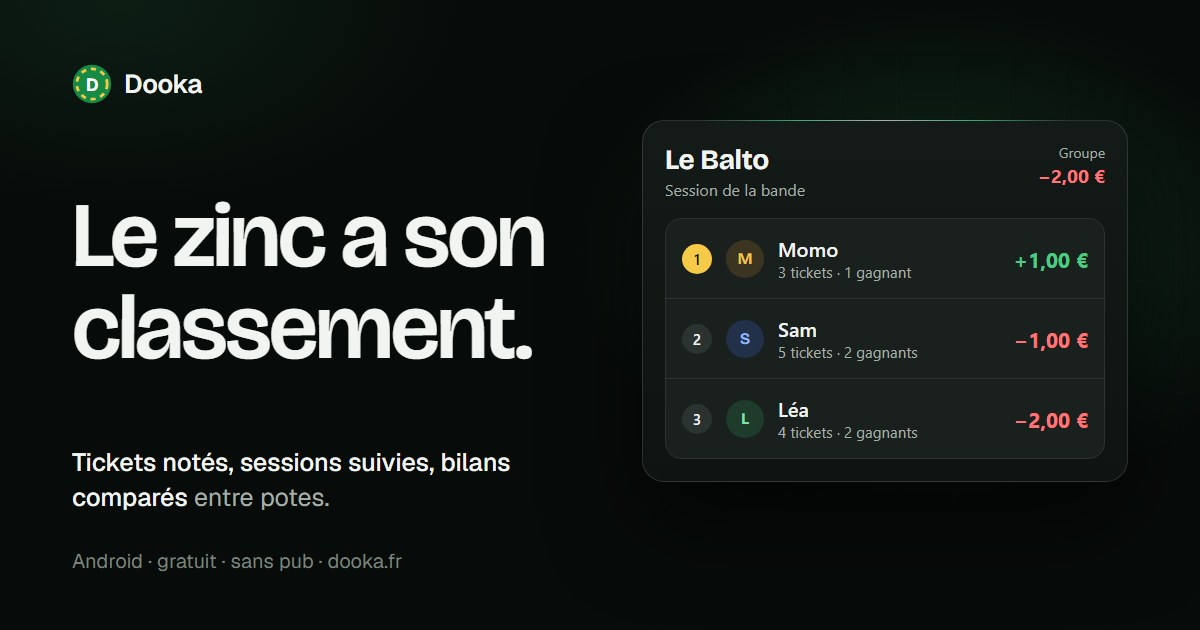
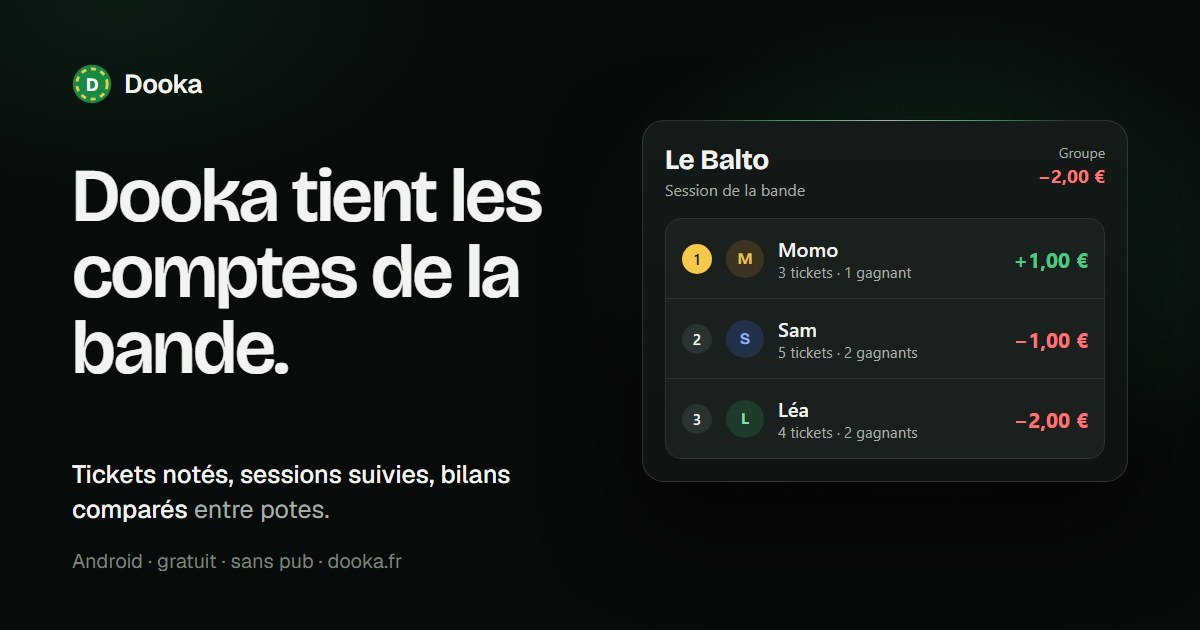
Site : « Dooka tient les comptes de la bande », et l'app décrite telle qu'elle est
- Nouveau titre d'accueil, repris dans og:title et dans og.jpg.
- Le site décrit l'app exactement : un ticket affiche sa vraie chance de
  gain et sa fiche le tableau complet des lots, sans gros lot mis en
  avant ; le record de chaque bar et la notification « Gros gains des
  amis » (activée par défaut, 50 € ou dix fois la mise) sont présentés
  dans un bloc « Ce qu'elle montre », sur l'accueil et sur la page jeu
  responsable.
- La promesse s'en tient à ce qui est vérifiable : Dooka n'a rien à gagner
  à ce que tu joues davantage. La section devient « Ce que Dooka fait, et
  ne fait pas ».

Changed region(s): [[0.0617, 0.2714, 0.4625, 0.6032], [0.0617, 0.7238, 0.4317, 0.8444]]

diff --git a/index.html b/index.html
@@ -6,7 +6,7 @@
 <title>Dooka — le PMU entre potes</title>
 <meta name="description" content="Dooka réunit tes tickets à gratter, tes sessions au PMU et ta bande dans une seule appli Android. Ce qui est joué est noté, les bilans se comparent. Gratuite, sans pub." />
 <meta property="og:type" content="website" />
-<meta property="og:title" content="Dooka — le zinc a son classement" />
+<meta property="og:title" content="Dooka tient les comptes de la bande" />
 <meta property="og:description" content="Tickets notés, sessions suivies, bilans nets comparés entre potes. Appli Android gratuite, sans pub." />
 <meta property="og:url" content="https://dooka.fr" />
 <!-- L'URL doit être absolue : les aperçus sont fabriqués par un serveur
@@ -15,7 +15,7 @@
 <meta property="og:image" content="https://dooka.fr/og.jpg" />
 <meta property="og:image:width" content="1200" />
 <meta property="og:image:height" content="630" />
-<meta property="og:image:alt" content="Dooka — le zinc a son classement" />
+<meta property="og:image:alt" content="Dooka tient les comptes de la bande" />
 <meta property="og:locale" content="fr_FR" />
 <meta property="og:site_name" content="Dooka" />
 <meta name="twitter:card" content="summary_large_image" />
@@ -520,6 +520,9 @@
   .nots li { display: grid; grid-template-columns: 32px 1fr; gap: 16px; align-items: center; padding: 16px 0; border-bottom: 1px solid var(--line); }
   .nots .x { width: 32px; height: 32px; border-radius: 50%; background: rgba(255,115,119,.10); color: var(--neg); display: flex; align-items: center; justify-content: center; }
   .nots .x .i { width: 15px; height: 15px; stroke-width: 2.4; }
+  .nots .x.info { background: rgba(255,255,255,.06); color: var(--text-2); }
+  .nots .x.info .i { stroke-width: 2; }
+  .pledge-h.pledge-h2 { margin-top: 40px; }
   .nots b { font-weight: 500; font-size: 16px; display: block; }
   .nots .d { color: var(--text-2); font-size: 15px; }
 
@@ -659,6 +662,7 @@
   <symbol id="i-calc" viewBox="0 0 24 24"><rect width="16" height="20" x="4" y="2" rx="2"/><path d="M8 6h8M16 14v4M16 10h.01M12 10h.01M8 10h.01M12 14h.01M8 14h.01M12 18h.01M8 18h.01"/></symbol>
   <symbol id="i-pencil" viewBox="0 0 24 24"><path d="M21.17 6.81a1 1 0 0 0-3.99-3.99L3.84 16.17a2 2 0 0 0-.5.83l-1.32 4.35a.5.5 0 0 0 .62.62l4.35-1.32a2 2 0 0 0 .83-.5z"/></symbol>
   <symbol id="i-store" viewBox="0 0 24 24"><path d="m2 7 4.41-4.41A2 2 0 0 1 7.83 2h8.34a2 2 0 0 1 1.42.59L22 7"/><path d="M4 12v8a2 2 0 0 0 2 2h12a2 2 0 0 0 2-2v-8"/><path d="M15 22v-4a2 2 0 0 0-2-2h-2a2 2 0 0 0-2 2v4"/><path d="M2 7h20"/><path d="M22 7v3a2 2 0 0 1-2 2 2.7 2.7 0 0 1-1.59-.63.7.7 0 0 0-.82 0A2.7 2.7 0 0 1 16 12a2.7 2.7 0 0 1-1.59-.63.7.7 0 0 0-.82 0A2.7 2.7 0 0 1 12 12a2.7 2.7 0 0 1-1.59-.63.7.7 0 0 0-.82 0A2.7 2.7 0 0 1 8 12a2.7 2.7 0 0 1-1.59-.63.7.7 0 0 0-.82 0A2.7 2.7 0 0 1 4 12a2 2 0 0 1-2-2V7"/></symbol>
+  <symbol id="i-eye" viewBox="0 0 24 24"><path d="M2.06 12.35a1 1 0 0 1 0-.7 10.75 10.75 0 0 1 19.88 0 1 1 0 0 1 0 .7 10.75 10.75 0 0 1-19.88 0"/><circle cx="12" cy="12" r="3"/></symbol>
   <symbol id="i-rotate" viewBox="0 0 24 24"><path d="M3 12a9 9 0 1 0 9-9 9.75 9.75 0 0 0-6.74 2.74L3 8"/><path d="M3 3v5h5"/></symbol>
   <symbol id="t-map" viewBox="0 0 24 24"><path d="M12 2a7.5 7.5 0 0 0-7.5 7.5c0 5.3 6.2 11.6 6.9 12.2a.9.9 0 0 0 1.2 0c.7-.6 6.9-6.9 6.9-12.2A7.5 7.5 0 0 0 12 2z"/><circle cx="12" cy="9.5" r="2.6" fill="#252D29"/></symbol>
   <symbol id="t-sess" viewBox="0 0 24 24"><rect x="2" y="6" width="20" height="12" rx="4"/><circle cx="8" cy="12" r="1.6" fill="#252D29"/><circle cx="12" cy="12" r="1.6" fill="#252D29"/><circle cx="16" cy="12" r="1.6" fill="#252D29"/></symbol>
@@ -688,7 +692,7 @@
   <section class="hero" aria-labelledby="titre">
     <div class="wrap">
       <div class="hero-top">
-        <h1 id="titre" class="rv">Le zinc a son classement.</h1>
+        <h1 id="titre" class="rv">Dooka tient les comptes de la bande.</h1>
         <div class="hero-side">
           <p class="hero-sub rv" style="--d:.08s"><strong>Tickets notés, sessions suivies, bilans comparés.</strong> Dooka met ta bande et ton bar dans la même appli : elle relève ce qui a été joué, et ne promet rien.</p>
           <div class="hero-cta rv" style="--d:.16s">
@@ -773,7 +777,7 @@
   <!-- ============ Manifeste ============ -->
   <section class="manifest" aria-label="Ce qu'est Dooka">
     <div class="wrap">
-      <p id="manifeste">Dooka est un <span>carnet</span>, pas un casino. Elle n'encaisse aucun pari, ne verse aucun gain et ne te pousse jamais à rejouer. Elle note ce que ta bande a joué, au bar, et range les <span>bilans</span>.</p>
+      <p id="manifeste">Dooka est un <span>carnet</span>, pas un casino. Elle n'encaisse aucun pari, ne verse aucun gain et n'a rien à gagner à ce que tu rejoues. Elle note ce que ta bande a joué, au bar, et range les <span>bilans</span>.</p>
     </div>
   </section>
 
@@ -908,18 +912,24 @@
   <section class="section" id="engagements" aria-labelledby="engagements-t">
     <div class="wrap pledge">
       <div class="pledge-copy rv">
-        <h2 id="engagements-t">Rien qui pousse à jouer plus.</h2>
-        <p>Dooka est gratuite, sans pub et sans partenariat avec un opérateur de jeu : elle n'a aucun intérêt à ce que tu joues davantage. Voici ce qu'elle ne fait pas, et ce qu'elle te donne pour garder la main.</p>
+        <h2 id="engagements-t">Ce que Dooka fait, et ne fait pas.</h2>
+        <p>Dooka est gratuite, sans pub et sans partenariat avec un opérateur de jeu : elle n'a rien à gagner à ce que tu joues davantage. Voici ce qu'elle ne fait pas, ce qu'elle montre, et ce qu'elle te donne pour garder la main.</p>
         <a class="link-arrow" href="/jeu-responsable.html">Notre page jeu responsable<svg class="i" aria-hidden="true"><use href="#i-arrow-r"/></svg></a>
       </div>
       <div class="rv" style="--d:.1s">
         <h3 class="pledge-h">Ce qu'elle ne fait pas</h3>
         <ul class="nots">
-          <li><span class="x" aria-hidden="true"><svg class="i"><use href="#i-x"/></svg></span><span><b>Aucun gain potentiel affiché</b><span class="d">Ni gros lot, ni « ce que tu aurais pu gagner ».</span></span></li>
+          <li><span class="x" aria-hidden="true"><svg class="i"><use href="#i-x"/></svg></span><span><b>Aucun gros lot mis en avant</b><span class="d">Un ticket affiche sa vraie chance de gain ; sa fiche donne le tableau complet des lots, sans en désigner aucun.</span></span></li>
           <li><span class="x" aria-hidden="true"><svg class="i"><use href="#i-x"/></svg></span><span><b>Ni badges ni niveaux</b><span class="d">Rien ne récompense le fait de jouer souvent.</span></span></li>
           <li><span class="x" aria-hidden="true"><svg class="i"><use href="#i-x"/></svg></span><span><b>Aucune série saluée</b><span class="d">Pas de félicitations pour une série de soirées gagnantes.</span></span></li>
           <li><span class="x" aria-hidden="true"><svg class="i"><use href="#i-x"/></svg></span><span><b>Aucun compte à rebours</b><span class="d">Rien n'expire, rien ne presse.</span></span></li>
           <li><span class="x" aria-hidden="true"><svg class="i"><use href="#i-x"/></svg></span><span><b>Aucune publicité</b><span class="d">Et aucun partenariat avec un opérateur de jeu.</span></span></li>
+        </ul>
+
+        <h3 class="pledge-h pledge-h2">Ce qu'elle montre</h3>
+        <ul class="nots">
+          <li><span class="x info" aria-hidden="true"><svg class="i"><use href="#i-eye"/></svg></span><span><b>Le record de chaque bar</b><span class="d">Le plus gros gain noté dans un bar apparaît sur sa fiche, avec le nom du joueur. À partir de 100 €, seulement avec la photo du ticket.</span></span></li>
+          <li><span class="x info" aria-hidden="true"><svg class="i"><use href="#i-eye"/></svg></span><span><b>Les gros gains de tes amis</b><span class="d">Une notification quand un ami gagne 50 € ou dix fois le prix de son ticket. Activée par défaut, elle se coupe dans les réglages.</span></span></li>
         </ul>
 
         <div class="limits">

diff --git a/jeu-responsable.html b/jeu-responsable.html
@@ -25,6 +25,7 @@
   <symbol id="i-download" viewBox="0 0 24 24"><path d="M21 15v4a2 2 0 0 1-2 2H5a2 2 0 0 1-2-2v-4"/><path d="m7 10 5 5 5-5"/><path d="M12 15V3"/></symbol>
   <symbol id="i-check" viewBox="0 0 24 24"><path d="M20 6 9 17l-5-5"/></symbol>
   <symbol id="i-x" viewBox="0 0 24 24"><path d="M18 6 6 18M6 6l12 12"/></symbol>
+  <symbol id="i-eye" viewBox="0 0 24 24"><path d="M2.06 12.35a1 1 0 0 1 0-.7 10.75 10.75 0 0 1 19.88 0 1 1 0 0 1 0 .7 10.75 10.75 0 0 1-19.88 0"/><circle cx="12" cy="12" r="3"/></symbol>
   <symbol id="i-phone" viewBox="0 0 24 24"><path d="M22 16.9v3a2 2 0 0 1-2.2 2 19.8 19.8 0 0 1-8.6-3.1 19.5 19.5 0 0 1-6-6A19.8 19.8 0 0 1 2.1 4.2 2 2 0 0 1 4.1 2h3a2 2 0 0 1 2 1.7c.1 1 .4 1.9.7 2.8a2 2 0 0 1-.5 2.1L8.1 9.9a16 16 0 0 0 6 6l1.3-1.3a2 2 0 0 1 2.1-.4c.9.3 1.8.6 2.8.7a2 2 0 0 1 1.7 2z"/></symbol>
   <symbol id="jeton" viewBox="0 0 100 100"><circle cx="50" cy="50" r="48" fill="#178A45"/><circle cx="50" cy="50" r="38" fill="none" stroke="#F7C948" stroke-width="7" stroke-dasharray="13 12"/><text x="50" y="52" text-anchor="middle" dominant-baseline="central" font-family="Bricolage Grotesque, Geist, system-ui, sans-serif" font-weight="700" font-size="44" fill="#FCFCF8">D</text></symbol>
 </svg>
@@ -47,16 +48,23 @@
 <main class="doc">
 
   <h1>Jouer doit rester un jeu.</h1>
-  <p class="lede">Dooka est un carnet, pas un casino. On n'encaisse aucun pari, on ne verse aucun gain, et l'application est construite pour ne jamais pousser à jouer davantage. Voici comment, et où trouver de l'aide si le jeu prend trop de place.</p>
+  <p class="lede">Dooka est un carnet, pas un casino. On n'encaisse aucun pari, on ne verse aucun gain, et l'application n'a rien à gagner à ce que vous jouiez davantage. Voici ce qu'elle fait et ne fait pas, et où trouver de l'aide si le jeu prend trop de place.</p>
 
   <h2>Ce que Dooka ne fait pas</h2>
   <p>Ce sont des choix assumés, et l'application s'y tient.</p>
   <ul class="marks">
-    <li><span class="m no" aria-hidden="true"><svg class="i"><use href="#i-x"/></svg></span><span><b>Aucun gain potentiel n'est affiché.</b> Ni gros lot à côté d'un ticket qu'on n'a pas acheté, ni taux de retour, ni « ce que vous auriez pu gagner ». On ne montre que ce qui a réellement été joué et gagné.</span></li>
+    <li><span class="m no" aria-hidden="true"><svg class="i"><use href="#i-x"/></svg></span><span><b>Aucun gros lot n'est mis en avant.</b> Un ticket affiche sa vraie chance de gain, pas le montant qu'on pourrait toucher ; sa fiche donne le tableau complet des lots, sans en désigner aucun. Et jamais de « ce que vous auriez pu gagner » : vos bilans ne comptent que ce qui a réellement été joué et gagné.</span></li>
     <li><span class="m no" aria-hidden="true"><svg class="i"><use href="#i-x"/></svg></span><span><b>Aucune série à entretenir.</b> Pas de « connectez-vous 7 jours d'affilée », pas de bonus de fréquence, pas de félicitations pour une série de soirées gagnantes.</span></li>
     <li><span class="m no" aria-hidden="true"><svg class="i"><use href="#i-x"/></svg></span><span><b>Aucun compte à rebours, aucune échéance.</b> Rien n'expire, rien ne presse.</span></li>
     <li><span class="m no" aria-hidden="true"><svg class="i"><use href="#i-x"/></svg></span><span><b>Aucune publicité, aucun partenariat avec un opérateur de jeu.</b> Dooka est gratuite et indépendante — elle n'a aucun intérêt à ce que vous jouiez plus.</span></li>
     <li><span class="m no" aria-hidden="true"><svg class="i"><use href="#i-x"/></svg></span><span><b>Aucun classement de perdants.</b> Les comparaisons entre amis portent sur des bilans réels, elles ne fixent pas d'objectif à atteindre.</span></li>
+  </ul>
+
+  <h2>Ce que l'application montre</h2>
+  <p>Deux choses mettent en avant des gains réels, et vous le savez avant de commencer.</p>
+  <ul class="marks">
+    <li><span class="m info" aria-hidden="true"><svg class="i"><use href="#i-eye"/></svg></span><span><b>Le record de chaque bar.</b> Le plus gros gain noté dans un bar apparaît sur sa fiche, avec le nom du joueur et le montant. Un gain de 100 € ou plus n'y figure que si la photo du ticket a été jointe.</span></li>
+    <li><span class="m info" aria-hidden="true"><svg class="i"><use href="#i-eye"/></svg></span><span><b>Les gros gains de vos amis.</b> Une notification quand un ami gagne 50 € ou dix fois le prix de son ticket. Elle est activée par défaut et se coupe dans les réglages de l'application.</span></li>
   </ul>
 
   <h2>Ce que l'application vous donne</h2>

diff --git a/.impeccable/og/og-card.html b/.impeccable/og/og-card.html
@@ -9,8 +9,8 @@
   .glow { position: absolute; inset: 0; background: radial-gradient(520px 360px at 78% 40%, rgba(60,194,120,.20), transparent 70%), radial-gradient(500px 300px at 10% 0%, rgba(60,194,120,.10), transparent 70%); }
   .grid { position: absolute; inset: 0; background-image: linear-gradient(rgba(255,255,255,.035) 1px, transparent 1px), linear-gradient(90deg, rgba(255,255,255,.035) 1px, transparent 1px); background-size: 56px 56px; -webkit-mask-image: radial-gradient(520px 400px at 78% 45%, #000, transparent 75%); }
   .brand { position: absolute; left: 72px; top: 64px; display: flex; align-items: center; gap: 12px; font-weight: 600; font-size: 26px; letter-spacing: -.3px; }
-  h1 { position: absolute; left: 72px; top: 190px; margin: 0; width: 560px; font-family: "Bricolage Grotesque", sans-serif; font-size: 92px; line-height: 1; font-weight: 600; letter-spacing: -.028em; }
-  .sub { position: absolute; left: 72px; top: 420px; width: 520px; font-size: 25px; line-height: 1.4; color: #A6AEA8; }
+  h1 { position: absolute; left: 72px; top: 158px; margin: 0; width: 540px; font-family: "Bricolage Grotesque", sans-serif; font-size: 76px; line-height: 1; font-weight: 600; letter-spacing: -.028em; }
+  .sub { position: absolute; left: 72px; top: 432px; width: 520px; font-size: 25px; line-height: 1.4; color: #A6AEA8; }
   .sub b { color: #F1F4F0; font-weight: 500; }
   .url { position: absolute; left: 72px; bottom: 56px; font-size: 20px; color: #7C847F; }
   .card { position: absolute; right: 72px; top: 120px; width: 440px; padding: 22px; border-radius: 22px; background: linear-gradient(180deg, #141A17, #0F1311); border: 1px solid rgba(255,255,255,.13); box-shadow: 0 40px 90px rgba(0,0,0,.6); font-family: system-ui, "Segoe UI", sans-serif; }
@@ -36,7 +36,7 @@
 </style></head><body>
 <div class="glow"></div><div class="grid"></div>
 <div class="brand"><svg width="40" height="40" viewBox="0 0 100 100"><circle cx="50" cy="50" r="48" fill="#178A45"/><circle cx="50" cy="50" r="38" fill="none" stroke="#F7C948" stroke-width="7" stroke-dasharray="13 12"/><text x="50" y="52" text-anchor="middle" dominant-baseline="central" font-family="Geist, sans-serif" font-weight="700" font-size="44" fill="#FCFCF8">D</text></svg>Dooka</div>
-<h1>Le zinc a son classement.</h1>
+<h1>Dooka tient les comptes de la bande.</h1>
 <p class="sub"><b>Tickets notés, sessions suivies, bilans comparés</b> entre potes.</p>
 <div class="url">Android · gratuit · sans pub · dooka.fr</div>
 <div class="card">

diff --git a/assets/site.css b/assets/site.css
@@ -167,6 +167,8 @@ code { font-family: var(--mono); font-size: .87em; background: var(--card); padd
 .marks .m .i { width: 15px; height: 15px; stroke-width: 2.4; }
 .marks .yes { background: rgba(60, 194, 120, .14); color: var(--green); }
 .marks .no { background: rgba(255, 115, 119, .10); color: var(--neg); }
+.marks .info { background: rgba(255, 255, 255, .06); color: var(--text-2); }
+.marks .info .i { stroke-width: 2; }
 .marks b { display: block; }
 
 /* L'aide : la seule chose qu'il faut trouver sans lire. */
